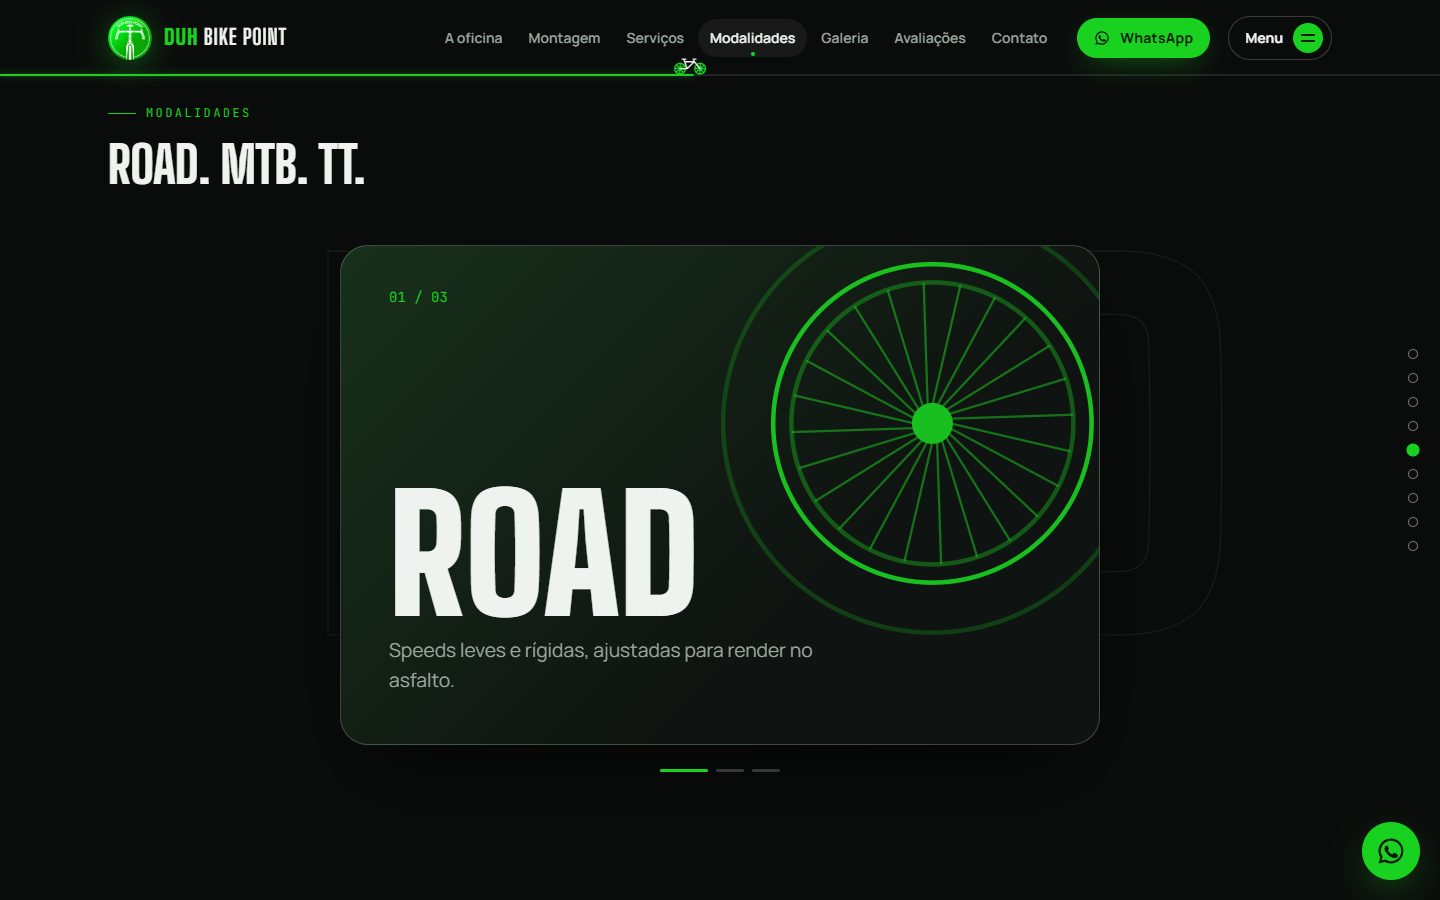
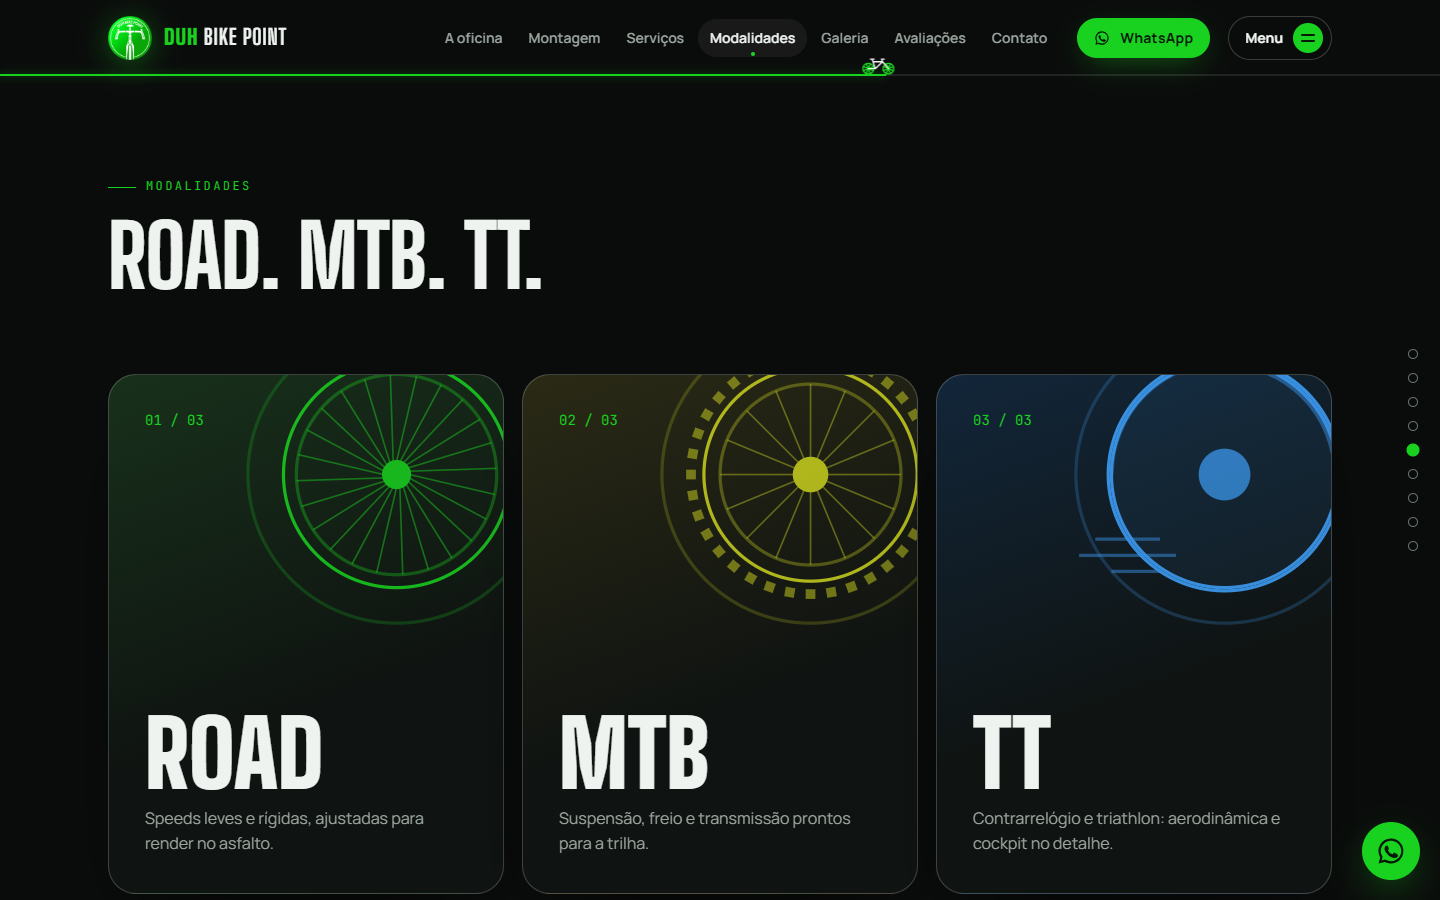
Modalidades em grade e Como funciona em carrossel automático
- Modalidades: todos os cards visíveis de uma vez (3/2/1 colunas)
- Como funciona: carrossel automático que pausa com o mouse, com setas,
  bolinhas, arraste e barra de tempo; sem rolagem lateral
- Prints e README atualizados

diff --git a/css/styles.css b/css/styles.css
@@ -296,48 +296,47 @@ button { font: inherit; color: inherit; cursor: pointer; }
 .js .svc-wrap.reveal.is-in { transform: none; }
 
 /* ---------- Disciplines ---------- */
-.disciplines { position: relative; height: 340vh; }
-.disciplines__pin { position: sticky; top: 0; height: 100vh; height: 100svh; overflow: hidden; display: flex; flex-direction: column; justify-content: center; }
-.disciplines__head { position: absolute; top: calc(var(--header-h) + 20px); left: 0; right: 0; z-index: 3; }
-.disciplines__head .h2 { font-size: clamp(2rem, 4vw, 3.2rem); }
-.disciplines__bg { position: absolute; inset: 0; display: grid; place-items: center; pointer-events: none; z-index: 0; }
-.disciplines__bg span { font-family: var(--font-display); font-weight: 900; font-size: clamp(8rem, 34vw, 30rem); line-height: 1; color: transparent; -webkit-text-stroke: 1px rgba(238,243,239,.08); text-transform: uppercase; white-space: nowrap; }
-.disciplines__stage { position: relative; z-index: 2; height: min(56svh, 500px); width: min(calc(100vw - 2 * var(--gutter)), 760px); margin: calc(var(--header-h) + 40px) auto 0; perspective: 1600px; transform-style: preserve-3d; }
+.disciplines__grid { display: grid; grid-template-columns: repeat(var(--n, 3), minmax(0, 1fr)); gap: 18px; }
+.disc-wrap { perspective: 1400px; }
+.js .disc-wrap.reveal { transform: translate3d(0, 60px, 0) rotateX(-18deg); transform-origin: 50% 0; }
+.js .disc-wrap.reveal.is-in { transform: none; }
 .disc {
-  position: absolute; inset: 0; border-radius: var(--r-lg); padding: clamp(22px, 4vw, 48px); display: flex; flex-direction: column; justify-content: flex-end;
-  border: 1px solid var(--line-strong); overflow: hidden; transform-origin: 50% 100%; box-shadow: 0 40px 80px -30px rgba(0,0,0,.8); will-change: transform;
+  position: relative; height: 100%; min-height: clamp(380px, 38vw, 520px); border-radius: var(--r-lg); padding: clamp(22px, 2.6vw, 36px);
+  display: flex; flex-direction: column; justify-content: flex-end; border: 1px solid var(--line-strong); overflow: hidden;
+  box-shadow: 0 40px 80px -40px rgba(0,0,0,.8); transform-style: preserve-3d; transition: border-color .35s, box-shadow .4s;
 }
-.disc__tag { font-family: var(--font-mono); color: var(--accent); font-size: var(--fs-sm); position: absolute; top: clamp(22px, 4vw, 40px); left: clamp(22px, 4vw, 48px); }
-.disc__title { font-family: var(--font-display); font-weight: 900; font-size: clamp(4rem, 14vw, 10rem); line-height: .8; text-transform: uppercase; margin: 0 0 16px; }
-.disc__text { color: var(--text-muted); font-size: var(--fs-lg); margin: 0; max-width: 38ch; position: relative; }
-.disc__art { position: absolute; right: -8%; top: -10%; width: 60%; aspect-ratio: 1; opacity: .9; }
+.disc:hover { border-color: rgba(31,230,40,.45); box-shadow: 0 40px 80px -40px rgba(31,230,40,.35); }
+.disc__tag { font-family: var(--font-mono); color: var(--accent); font-size: var(--fs-sm); position: absolute; top: clamp(22px, 2.6vw, 34px); left: clamp(22px, 2.6vw, 36px); }
+.disc__title { font-family: var(--font-display); font-weight: 900; font-size: clamp(3.6rem, 6.4vw, 6.2rem); line-height: .82; text-transform: uppercase; margin: 0 0 14px; transform: translateZ(30px); }
+.disc__text { color: var(--text-muted); font-size: 1rem; margin: 0; max-width: 34ch; position: relative; transform: translateZ(20px); }
+.disc__art { position: absolute; right: -14%; top: -12%; width: 82%; aspect-ratio: 1; opacity: .85; transition: transform .8s var(--ease-out); }
 .disc__art svg { animation: spin 30s linear infinite; }
-.disc:nth-child(3n+1) { background: linear-gradient(135deg, #18311b, var(--ink-850) 65%); }
-.disc:nth-child(3n+2) { background: linear-gradient(135deg, #2a2a15, var(--ink-850) 65%); }
-.disc:nth-child(3n+3) { background: linear-gradient(135deg, #12263a, var(--ink-850) 65%); }
-.disciplines__dots { position: relative; z-index: 3; display: flex; justify-content: center; gap: 8px; margin-top: 24px; }
-.disciplines__dots i { width: 28px; height: 3px; border-radius: 3px; background: var(--line-strong); transition: background-color .3s, width .3s; }
-.disciplines__dots i.is-active { background: var(--accent); width: 48px; }
+.disc:hover .disc__art { transform: scale(1.06) rotate(-6deg); }
+.disc:nth-child(1), .disc-wrap:nth-child(3n+1) .disc { background: linear-gradient(160deg, #18311b, var(--ink-850) 62%); }
+.disc-wrap:nth-child(3n+2) .disc { background: linear-gradient(160deg, #2a2a15, var(--ink-850) 62%); }
+.disc-wrap:nth-child(3n+3) .disc { background: linear-gradient(160deg, #12263a, var(--ink-850) 62%); }
+.disc__bg img { transition: transform 1.2s var(--ease-out); }
+.disc:hover .disc__bg img { transform: scale(1.06); }
 
 /* ---------- Process ---------- */
-.process { position: relative; height: 300vh; }
-.process__pin { position: sticky; top: 0; height: 100vh; height: 100svh; overflow: hidden; display: flex; flex-direction: column; justify-content: center; padding-top: var(--header-h); }
-.process__head { margin-bottom: clamp(24px, 4vw, 48px); }
+.process { position: relative; overflow: hidden; }
 .process__head .h2 { margin: 0; }
-.process__viewport { width: 100%; }
-.process__track { display: flex; gap: clamp(14px, 2vw, 24px); padding-inline: max(var(--gutter), calc((100vw - 1320px) / 2 + var(--gutter))); width: max-content; will-change: transform; }
+.pcar { --per: 3; --gap: clamp(14px, 2vw, 24px); position: relative; z-index: 1; }
+.pcar__viewport { overflow: hidden; margin: -24px 0; padding: 24px 0; touch-action: pan-y; user-select: none; -webkit-user-select: none; }
+.process__track { display: flex; gap: var(--gap); transition: transform .8s var(--ease-out); will-change: transform; }
 .step {
-  flex: none; width: min(420px, 78vw); min-height: clamp(240px, 38svh, 320px); border-radius: var(--r-lg); padding: clamp(22px, 3vw, 32px); position: relative;
+  flex: 0 0 calc((100% - var(--gap) * (var(--per) - 1)) / var(--per)); min-height: clamp(250px, 26vw, 320px); border-radius: var(--r-lg); padding: clamp(22px, 2.6vw, 32px); position: relative;
   border: 1px solid var(--line-strong); background: var(--surface); display: flex; flex-direction: column; justify-content: space-between; overflow: hidden;
-  transition: border-color .4s, background-color .4s;
+  transition: border-color .4s, background-color .4s, transform .5s var(--ease-out);
 }
 .step.is-active { border-color: rgba(31,230,40,.5); background: linear-gradient(160deg, #132017, var(--surface)); }
-.step__n { font-family: var(--font-display); font-weight: 900; font-size: clamp(4.5rem, 9vw, 7rem); line-height: .8; color: transparent; -webkit-text-stroke: 1.5px var(--accent); }
-.step h3 { font-family: var(--font-display); font-weight: 800; text-transform: uppercase; font-size: clamp(1.8rem, 3vw, 2.4rem); line-height: 1; margin: 20px 0 8px; }
+.step__n { font-family: var(--font-display); font-weight: 900; font-size: clamp(4.5rem, 8vw, 6.5rem); line-height: .8; color: transparent; -webkit-text-stroke: 1.5px var(--accent); }
+.step h3 { font-family: var(--font-display); font-weight: 800; text-transform: uppercase; font-size: clamp(1.8rem, 2.6vw, 2.3rem); line-height: 1; margin: 20px 0 8px; }
 .step p { margin: 0; color: var(--text-muted); }
-.process__bar { margin-top: 28px; }
-.process__bar::before { content: ""; display: block; height: 2px; background: var(--line); }
-.process__bar span { display: block; height: 2px; margin-top: -2px; background: var(--accent); transform-origin: 0 50%; transform: scaleX(0); }
+.pcar__controls { display: flex; align-items: center; gap: 16px; margin-top: 28px; }
+.pcar__timer { flex: 1; height: 2px; background: var(--line); border-radius: 2px; overflow: hidden; }
+.pcar__timer span { display: block; height: 100%; background: var(--accent); transform-origin: 0 50%; transform: scaleX(0); }
+.pcar.is-paused .pcar__timer span { opacity: .4; }
 .process__chainring { position: absolute; right: -90px; bottom: -90px; width: 340px; height: 340px; color: var(--accent); opacity: .16; pointer-events: none; }
 
 /* ---------- Gallery ring ---------- */
@@ -571,7 +570,6 @@ body.menu-open .wa-float, body.lb-open .wa-float, body:has(.cms:not([hidden])) .
   .coin-stage { width: min(300px, 70vw); }
   .hero { align-items: flex-end; }
   .hero__canvas { opacity: .9; }
-  .disc__art { width: 70%; right: -18%; top: -6%; opacity: .45; }
   .process__chainring { width: 220px; height: 220px; right: -60px; bottom: -60px; }
   .menu__grid { grid-template-columns: 1fr; align-items: start; }
   .contact__map, .contact__map iframe { min-height: 320px; }
@@ -605,8 +603,6 @@ body.menu-open .wa-float, body.lb-open .wa-float, body:has(.cms:not([hidden])) .
   .hero { align-items: center; }
   .hero__title { font-size: clamp(3rem, 10vw, 6rem); }
   .bike__steps p, .bike__head .kicker { display: none; }
-  .disciplines__stage { height: 60svh; margin-top: calc(var(--header-h) + 10px); }
-  .disciplines__head { display: none; }
 }
 
 @media (prefers-reduced-motion: reduce) {
@@ -637,10 +633,33 @@ body.at-hero .wa-float { opacity: 0; pointer-events: none; transform: scale(.6);
   .hero__scroll { display: none; }
   /* menos rolagem nas seções fixadas */
   .bike { height: 360vh; }
-  .disciplines { height: 260vh; }
-  .process { height: 240vh; }
 }
 @media (max-width: 640px) {
   .bike__steps { padding-right: 64px; }
   .carousel__controls { gap: 12px; }
 }
+
+/* Modalidades: grade responsiva */
+@media (max-width: 1024px) {
+  .disciplines__grid { grid-template-columns: repeat(2, minmax(0, 1fr)); }
+  .disciplines__grid > .disc-wrap:last-child:nth-child(odd) { grid-column: 1 / -1; }
+  .disciplines__grid > .disc-wrap:last-child:nth-child(odd) .disc { min-height: 320px; }
+}
+@media (max-width: 640px) {
+  .disciplines__grid { grid-template-columns: 1fr; gap: 14px; }
+  .disciplines__grid > .disc-wrap:last-child:nth-child(odd) .disc { min-height: 300px; }
+  .disc { min-height: 300px; }
+  .disc__art { width: 70%; right: -16%; top: -14%; opacity: .6; }
+  .disc__title { font-size: clamp(3.4rem, 17vw, 4.6rem); }
+}
+
+/* Como funciona: carrossel responsivo */
+@media (max-width: 1024px) { .pcar { --per: 2; } }
+@media (max-width: 640px) {
+  .pcar { --per: 1; }
+  .pcar__controls { gap: 12px; }
+  .pcar__timer { display: none; }
+  .pcar__controls .carousel__dots { flex: 1; }
+}
+/* desenho da modalidade não cresce demais em cards largos */
+.disc__art { max-width: 340px; }

diff --git a/js/effects.js b/js/effects.js
@@ -241,6 +241,60 @@ window.Effects = (function () {
     layout();
   }
 
+  /* ---------- Como funciona: carrossel automático (pausa com o mouse em cima) ---------- */
+  function initProcessCarousel() {
+    const root = $('#pcar'), track = $('#processTrack'); if (!root || !track) return;
+    const steps = $$('.step', track); const n = steps.length; if (!n) return;
+    const dotsBox = $('#pcarDots'), bar = $('#processBar');
+    const DELAY = 4000;
+    let index = 0, per = 1, paused = false, inView = false, elapsed = 0, last = performance.now();
+    const maxIndex = () => Math.max(0, n - per);
+    function buildDots() {
+      const pages = maxIndex() + 1;
+      dotsBox.innerHTML = Array.from({ length: pages }, (_, i) => `<button type="button" role="tab" aria-label="Etapa ${i + 1}" aria-selected="${i === index}"></button>`).join('');
+      $$('button', dotsBox).forEach((b, i) => b.addEventListener('click', () => go(i, true)));
+      dotsBox.hidden = pages < 2; $('#pcarPrev').hidden = $('#pcarNext').hidden = pages < 2;
+    }
+    function layout() {
+      per = parseInt(getComputedStyle(root).getPropertyValue('--per')) || 1;
+      if (index > maxIndex()) index = maxIndex();
+      buildDots(); go(index);
+    }
+    function go(i, user) {
+      const m = maxIndex(); index = i > m ? 0 : i < 0 ? m : i;
+      track.style.transform = `translate3d(${-steps[index].offsetLeft}px,0,0)`;
+      steps.forEach((st, k) => { st.classList.toggle('is-active', k === index); st.setAttribute('aria-hidden', String(k < index || k >= index + per)); });
+      $$('button', dotsBox).forEach((d, k) => d.setAttribute('aria-selected', String(k === index)));
+      elapsed = 0; if (user) last = performance.now();
+    }
+    const setPaused = (v) => { paused = v; root.classList.toggle('is-paused', v); };
+    root.addEventListener('mouseenter', () => setPaused(true));
+    root.addEventListener('mouseleave', () => setPaused(false));
+    root.addEventListener('focusin', () => setPaused(true));
+    root.addEventListener('focusout', () => setPaused(false));
+    $('#pcarPrev').addEventListener('click', () => go(index - 1, true));
+    $('#pcarNext').addEventListener('click', () => go(index + 1, true));
+    root.addEventListener('keydown', (e) => { if (e.key === 'ArrowLeft') go(index - 1, true); if (e.key === 'ArrowRight') go(index + 1, true); });
+    // arraste/toque
+    let sx = 0, sy = 0, down = false;
+    track.addEventListener('pointerdown', (e) => { down = true; sx = e.clientX; sy = e.clientY; if (e.pointerType !== 'mouse') setPaused(true); });
+    addEventListener('pointerup', (e) => {
+      if (!down) return; down = false;
+      const dx = e.clientX - sx, dy = e.clientY - sy;
+      if (Math.abs(dx) > 40 && Math.abs(dx) > Math.abs(dy)) go(index + (dx < 0 ? 1 : -1), true);
+      if (e.pointerType !== 'mouse') setTimeout(() => setPaused(false), 2500);
+    });
+    new IntersectionObserver(([e]) => { inView = e.isIntersecting; }, { threshold: 0.3 }).observe(root);
+    (function loop(now) {
+      const dt = now - last; last = now;
+      if (!paused && inView && !reduce && maxIndex() > 0) { elapsed += dt; if (elapsed >= DELAY) go(index + 1); }
+      bar.style.transform = `scaleX(${Math.min(1, elapsed / DELAY)})`;
+      requestAnimationFrame(loop);
+    })(performance.now());
+    addEventListener('resize', layout);
+    layout();
+  }
+
   /* ---------- Avaliações: setas + fonte ao vivo (Supabase Edge Function), se configurada ---------- */
   function initReviews() {
     const rail = $('#reviewsRail');
@@ -302,38 +356,8 @@ window.Effects = (function () {
     // Moeda gira com o scroll
     gsap.fromTo('#coin', { rotationY: -35, rotationX: 12 }, { rotationY: 35, rotationX: -8, ease: 'none', scrollTrigger: { trigger: '.about', start: 'top bottom', end: 'bottom top', scrub: true } });
 
-    // Modalidades: pilha 3D
-    const discs = $$('.disc'), big = $('#discBig'), dots = $$('#discDots i');
-    if (discs.length > 1) {
-      discs.forEach((d, i) => gsap.set(d, { zIndex: i + 1, yPercent: i === 0 ? 0 : 120, rotationX: i === 0 ? 0 : -50, opacity: i === 0 ? 1 : 0, transformPerspective: 1600 }));
-      const tl = gsap.timeline({ defaults: { ease: 'none' }, scrollTrigger: { trigger: '.disciplines', start: 'top top', end: 'bottom bottom', scrub: 0.6,
-        onUpdate: (s) => {
-          const tt = s.progress * tl.duration(); const idx = Math.max(0, Math.min(discs.length - 1, Math.floor((tt - 0.35 + 0.95) / 1.45)));
-          if (big && big.textContent !== discs[idx].dataset.title) big.textContent = discs[idx].dataset.title;
-          dots.forEach((d, i) => d.classList.toggle('is-active', i === idx));
-        } } });
-      discs.forEach((d, i) => {
-        if (i === 0) return;
-        const at = 0.35 + (i - 1) * 1.45; // pausa entre cards
-        tl.to(discs.slice(0, i), { scale: (k) => 0.92 - (i - 1 - k) * 0.05, yPercent: (k) => -7 * (i - k), rotationX: 6, filter: 'brightness(0.5)', duration: 1 }, at)
-          .to(d, { yPercent: 0, rotationX: 0, opacity: 1, duration: 1 }, at);
-      });
-      tl.to({}, { duration: 0.45 });
-      gsap.fromTo('.disciplines__bg span', { xPercent: 6 }, { xPercent: -6, ease: 'none', scrollTrigger: { trigger: '.disciplines', start: 'top top', end: 'bottom bottom', scrub: true } });
-    }
-
-    // Processo: horizontal
-    const track = $('#processTrack'), steps = $$('.step'), bar = $('#processBar');
-    if (track && steps.length) {
-      const dist = () => Math.max(0, track.scrollWidth - innerWidth);
-      gsap.to(track, { x: () => -dist(), ease: 'none', scrollTrigger: { trigger: '.process', start: 'top top', end: 'bottom bottom', scrub: 0.5, invalidateOnRefresh: true,
-        onUpdate: (s) => {
-          bar.style.transform = `scaleX(${s.progress})`;
-          const idx = Math.min(steps.length - 1, Math.floor(s.progress * steps.length * 0.999));
-          steps.forEach((st, i) => st.classList.toggle('is-active', i === idx));
-        } } });
-      gsap.to('#chainring', { rotation: 540, ease: 'none', scrollTrigger: { trigger: '.process', start: 'top bottom', end: 'bottom top', scrub: true } });
-    }
+    // Processo: engrenagem gira com o scroll
+    gsap.to('#chainring', { rotation: 360, ease: 'none', scrollTrigger: { trigger: '.process', start: 'top bottom', end: 'bottom top', scrub: true } });
 
     // CTA: logo gira em 3D
     gsap.fromTo('#ctaLogo', { rotationY: -180, scale: 0.6 }, { rotationY: 0, scale: 1, ease: 'none', transformPerspective: 800, scrollTrigger: { trigger: '.cta', start: 'top bottom', end: 'top 30%', scrub: true } });
@@ -343,7 +367,7 @@ window.Effects = (function () {
 
   function init() {
     initScroll(); initAnchors(); initHeader(); initMenu(); initCursor(); initReveals(); initTilt(); initMagnetic();
-    initLightbox(); initCarousel(); initReviews(); initMarquee(); initScrollScenes();
+    initLightbox(); initCarousel(); initProcessCarousel(); initReviews(); initMarquee(); initScrollScenes();
     if (document.fonts && document.fonts.ready) document.fonts.ready.then(refresh);
     addEventListener('load', refresh);
     // abre na âncora da URL, se houver

diff --git a/index.html b/index.html
@@ -14,7 +14,7 @@
   <link rel="preconnect" href="https://fonts.googleapis.com">
   <link rel="preconnect" href="https://fonts.gstatic.com" crossorigin>
   <link href="https://fonts.googleapis.com/css2?family=Big+Shoulders+Display:wght@500;700;800;900&family=Manrope:wght@400;500;600;700&family=JetBrains+Mono:wght@400;600&display=swap" rel="stylesheet">
-  <link rel="stylesheet" href="css/styles.css?v=19">
+  <link rel="stylesheet" href="css/styles.css?v=22">
   <script>document.documentElement.classList.replace('no-js', 'js');</script>
 </head>
 <body class="is-loading">
@@ -191,29 +191,34 @@
     </section>
 
     <!-- DISCIPLINES -->
-    <section class="disciplines" id="modalidades" data-section>
-      <div class="disciplines__pin">
-        <div class="disciplines__bg" aria-hidden="true"><span id="discBig">ROAD</span></div>
-        <div class="container disciplines__head">
-          <p class="kicker" data-cms="sections.disciplines.kicker"></p>
-          <h2 class="h2" data-cms="sections.disciplines.title"></h2>
-        </div>
-        <div class="disciplines__stage" id="discStage"></div>
-        <div class="disciplines__dots" id="discDots" aria-hidden="true"></div>
+    <section class="disciplines section" id="modalidades" data-section>
+      <div class="container">
+        <header class="section-head">
+          <p class="kicker reveal" data-cms="sections.disciplines.kicker"></p>
+          <h2 class="h2 split-words" data-cms="sections.disciplines.title"></h2>
+        </header>
+        <div class="disciplines__grid" id="discStage"></div>
       </div>
     </section>
 
     <!-- PROCESS -->
-    <section class="process" id="processo" data-section>
-      <div class="process__pin">
-        <div class="container process__head">
-          <p class="kicker" data-cms="sections.process.kicker"></p>
-          <h2 class="h2" data-cms="sections.process.title"></h2>
+    <section class="process section" id="processo" data-section>
+      <div class="container">
+        <header class="section-head process__head">
+          <p class="kicker reveal" data-cms="sections.process.kicker"></p>
+          <h2 class="h2 split-words" data-cms="sections.process.title"></h2>
+        </header>
+        <div class="pcar reveal" id="pcar" aria-roledescription="carrossel" aria-label="Etapas do atendimento">
+          <div class="pcar__viewport"><div class="process__track" id="processTrack" aria-live="polite"></div></div>
+          <div class="pcar__controls">
+            <button class="carousel__btn" id="pcarPrev" type="button" aria-label="Etapa anterior"><svg class="i" viewBox="0 0 24 24"><use href="#i-arrow" transform="rotate(180 12 12)"/></svg></button>
+            <div class="pcar__timer" aria-hidden="true"><span id="processBar"></span></div>
+            <div class="carousel__dots" id="pcarDots" role="tablist" aria-label="Escolher etapa"></div>
+            <button class="carousel__btn" id="pcarNext" type="button" aria-label="Próxima etapa"><svg class="i" viewBox="0 0 24 24"><use href="#i-arrow"/></svg></button>
+          </div>
         </div>
-        <div class="process__viewport"><div class="process__track" id="processTrack"></div></div>
-        <div class="container process__bar" aria-hidden="true"><span id="processBar"></span></div>
-        <svg class="process__chainring" id="chainring" viewBox="0 0 200 200" aria-hidden="true"></svg>
       </div>
+      <svg class="process__chainring" id="chainring" viewBox="0 0 200 200" aria-hidden="true"></svg>
     </section>
 
     <!-- GALLERY -->
@@ -386,15 +391,15 @@
   <script src="https://cdnjs.cloudflare.com/ajax/libs/gsap/3.12.5/ScrollTrigger.min.js"></script>
   <script src="https://unpkg.com/lenis@1.1.13/dist/lenis.min.js"></script>
   <script src="https://cdn.jsdelivr.net/npm/@supabase/supabase-js@2.45.4/dist/umd/supabase.min.js"></script>
-  <script src="js/config.js?v=19"></script>
-  <script src="js/content.js?v=19"></script>
-  <script src="js/store.js?v=19"></script>
-  <script src="js/render.js?v=19"></script>
-  <script src="js/logo-data.js?v=19"></script>
-  <script src="js/hero3d.js?v=19"></script>
-  <script src="js/bike3d.js?v=19"></script>
-  <script src="js/effects.js?v=19"></script>
-  <script src="js/cms.js?v=19"></script>
-  <script src="js/app.js?v=19"></script>
+  <script src="js/config.js?v=22"></script>
+  <script src="js/content.js?v=22"></script>
+  <script src="js/store.js?v=22"></script>
+  <script src="js/render.js?v=22"></script>
+  <script src="js/logo-data.js?v=22"></script>
+  <script src="js/hero3d.js?v=22"></script>
+  <script src="js/bike3d.js?v=22"></script>
+  <script src="js/effects.js?v=22"></script>
+  <script src="js/cms.js?v=22"></script>
+  <script src="js/app.js?v=22"></script>
 </body>
 </html>

diff --git a/js/render.js b/js/render.js
@@ -62,17 +62,18 @@
   function renderDisciplines() {
     const st = $('#discStage'); if (!st) return;
     const arts = [ART.road, ART.mtb, ART.tt];
-    st.innerHTML = (Store.get('disciplines') || []).map((d, i) => `
-      <article class="disc${d.image ? ' has-img' : ''}" data-title="${esc(d.title)}">
-        ${d.image ? `<div class="disc__bg" aria-hidden="true"><img src="${esc(d.image)}" alt="" loading="lazy"></div>` : ''}
-        <div class="disc__art" aria-hidden="true">${arts[i % 3]}</div>
-        <span class="disc__tag">${esc(d.tag)} / ${String((Store.get('disciplines') || []).length).padStart(2, '0')}</span>
-        <h3 class="disc__title">${esc(d.title)}</h3>
-        <p class="disc__text">${esc(d.text)}</p>
-      </article>`).join('');
-    const dots = $('#discDots'); if (dots) dots.innerHTML = (Store.get('disciplines') || []).map((_, i) => `<i class="${i ? '' : 'is-active'}"></i>`).join('');
-    const big = $('#discBig'); const first = (Store.get('disciplines') || [])[0];
-    if (big && first) big.textContent = first.title;
+    const list = Store.get('disciplines') || [];
+    st.style.setProperty('--n', Math.max(1, Math.min(list.length, 3)));
+    st.innerHTML = list.map((d, i) => `
+      <div class="disc-wrap reveal" style="--d:${(i % 3) * 0.1}s">
+        <article class="disc${d.image ? ' has-img' : ''}" data-tilt="8">
+          ${d.image ? `<div class="disc__bg" aria-hidden="true"><img src="${esc(d.image)}" alt="" loading="lazy"></div>` : ''}
+          <div class="disc__art" aria-hidden="true">${arts[i % 3]}</div>
+          <span class="disc__tag">${esc(d.tag)} / ${String(list.length).padStart(2, '0')}</span>
+          <h3 class="disc__title">${esc(d.title)}</h3>
+          <p class="disc__text">${esc(d.text)}</p>
+        </article>
+      </div>`).join('');
   }
 
   function renderProcess() {

diff --git a/README.md b/README.md
@@ -13,8 +13,8 @@ Site estático (HTML, CSS e JavaScript, sem etapa de build), com efeitos 3D, ani
 - **Hero 3D:** o logo vira uma moeda 3D dentro de uma roda de bike, com coroas e partículas. Reage ao mouse e ao scroll.
 - **Bike 3D montada pelo scroll:** uma speed de carbono que se monta peça por peça (quadro, rodas, transmissão, cockpit e selim). Tem reflexos de estúdio, sombras e contador de "% montada".
 - **Serviços com orçamento em 1 toque:** cada card abre o WhatsApp com a mensagem pronta para aquele serviço.
-- **Modalidades em pilha 3D:** cards de Road, MTB e TT que trocam conforme a rolagem. Cada card aceita uma foto de fundo.
-- **Como funciona:** etapas do atendimento em rolagem horizontal, com barra de progresso.
+- **Modalidades:** cards de Road, MTB e TT lado a lado, com inclinação 3D ao passar o mouse. Cada card aceita uma foto de fundo.
+- **Como funciona:** carrossel automático das etapas do atendimento, que pausa com o mouse em cima. Tem setas, bolinhas, arraste no celular e barra de tempo.
 - **Galeria em carrossel 3D:** arraste, setas, teclado e troca automática. Tocar numa foto abre a imagem em tela cheia.
 - **Avaliações do Google:** nota, total de avaliações e depoimentos em carrossel.
 - **Navegação:** menu em tela cheia, pontos de seção na lateral e uma barra de progresso no topo com uma bike pedalando.
